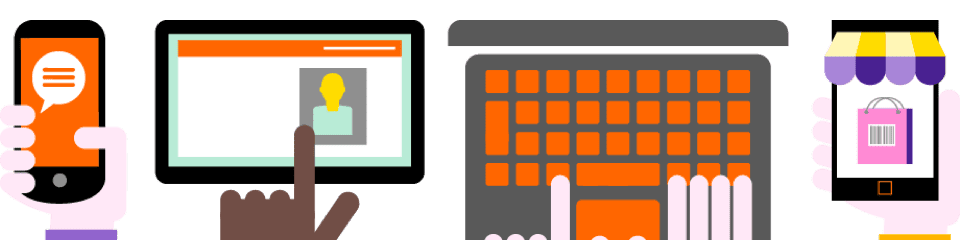
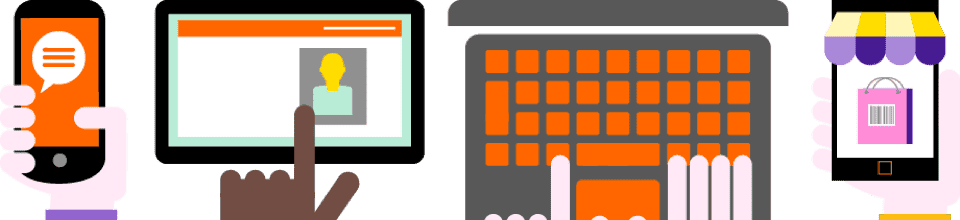
Tests with srcset + display + remove bg-image

diff --git a/site/content/docs/5.1/examples/title-bars/index.html b/site/content/docs/5.1/examples/title-bars/index.html
@@ -38,13 +38,13 @@ body_class: "d-flex flex-column"
   <div class="px-2 px-md-3 px-lg-4 px-xxl-5">
     <div class="px-lg-2 px-xl-3 px-xxl-2 d-flex">
       <div class="pt-3 pt-md-4 pb-2 pb-md-3">
-        <h1 class="py-xl-1 m-0">Short title img</h1>
+        <h1 class="py-xl-1 m-0">Short img</h1>
       </div>
-      <div class="pt-1 pt-md-2 ms-auto mt-auto text-end display-1 m-0 d-flex gap-2">
-        <img src="https://boosted.orange.com/docs/5.1/assets/brand/orange-logo.svg" />
-        <img src="https://boosted.orange.com/docs/5.1/assets/brand/orange-logo.svg" />
-        <img src="https://assets.stickpng.com/images/580b57fcd9996e24bc43c325.png" class="d-none d-sm-block" />
-        <img src="https://www.zelda.com/links-awakening/assets/img/characters/char-link.png" class="d-none d-md-block" />
+      <div class="pt-1 pt-md-2 ms-auto mt-auto text-end m-0 d-flex gap-2">
+        <img src="https://boosted.orange.com/docs/5.1/assets/brand/orange-logo.svg" alt="illustration" />
+        <img src="https://boosted.orange.com/docs/5.1/assets/brand/orange-logo.svg" alt="illustration" />
+        <img src="https://assets.stickpng.com/images/580b57fcd9996e24bc43c325.png" alt="illustration" class="d-none d-sm-block" />
+        <img src="https://www.zelda.com/links-awakening/assets/img/characters/char-link.png" alt="illustration" class="d-none d-md-block" />
       </div>
     </div>
   </div>
@@ -52,14 +52,14 @@ body_class: "d-flex flex-column"
 
 <div class="b-example-divider"></div>
 
-<!-- IMG with bitmap and svg images -->
+<!-- IMG with bitmap and svg images ->
 <div class="bg-supporting-green">
   <div class="px-2 px-sm-3 px-md-4 px-xl-5">
     <div class="px-md-2 px-lg-3 px-xl-2 d-flex">
       <div class="pt-3 pt-sm-4 pb-2 pb-sm-3 me-3">
         <h1 class="display-1 py-lg-1 m-0">No component</h1>
       </div>
-      <div class="ms-auto mt-auto text-end display-1 m-0 d-flex gap-2 img">
+      <div class="ms-auto mt-auto text-end m-0 d-flex gap-2 img">
         <img src="https://boosted.orange.com/docs/5.1/assets/brand/orange-logo.svg" />
         <img src="https://boosted.orange.com/docs/5.1/assets/brand/orange-logo.svg" />
         <img src="https://assets.stickpng.com/images/580b57fcd9996e24bc43c325.png" class="d-none d-sm-block" />
@@ -69,23 +69,23 @@ body_class: "d-flex flex-column"
   </div>
 </div>
 
-<div class="b-example-divider"></div>
+<div class="b-example-divider"></div-->
 
 <!-- SVG images -->
 <div class="bg-supporting-green title-bar">
   <div class="px-2 px-md-3 px-lg-4 px-xxl-5">
     <div class="px-lg-2 px-xl-3 px-xxl-2 d-flex">
       <div class="pt-3 pt-md-4 pb-2 pb-md-3">
-        <h1 class="py-xl-1 m-0">Short title svg</h1>
+        <h1 class="py-xl-1 m-0">Short svg</h1>
       </div>
-      <div class="pt-1 pt-md-2 ms-auto mt-auto text-end display-1 m-0 d-flex gap-2">
+      <div class="pt-1 pt-md-2 ms-auto mt-auto text-end m-0 d-flex gap-2">
         <svg viewBox="0 0 876 1280" class="img">
           <g transform="translate(0.000000,1280.000000) scale(0.100000,-0.100000)" fill="currentColor">
             <path d="M3890 11170 c-327 -19 -631 -131 -870 -321 -197 -157 -306 -274 -472 -509 -65 -91 -168 -254 -168 -265 0 -4 -20 -47 -45 -95 -26 -52 -61 -148 -86 -236 -37 -129 -43 -162 -43 -249 -1 -88 3 -111 32 -194 18 -52 48 -116 67 -141 19 -26 35 -50 35 -54 0 -3 -18 -6 -39 -6 -56 0 -90 -15 -138 -62 -70 -69 -88 -137 -87 -333 1 -154 2 -164 38 -285 49 -165 169 -412 234 -482 25 -27 68 -61 93 -74 42 -21 47 -27 53 -67 9 -60 52 -146 139 -280 59 -90 109 -149 235 -277 l161 -163 -33 -41 c-18 -22 -38 -50 -44 -62 -6 -11 -39 -35 -74 -54 -35 -18 -75 -44 -91 -58 -27 -26 -28 -26 -58 -8 -160 94 -639 -269 -1006 -763 -43 -58 -112 -150 -154 -205 -73 -98 -131 -184 -199 -296 -18 -30 -66 -109 -107 -175 -40 -66 -73 -124 -73 -128 0 -5 -14 -28 -31 -53 -17 -25 -41 -69 -54 -99 -26 -57 -50 -79 -100 -91 -82 -19 -145 -85 -145 -153 0 -18 9 -49 20 -71 26 -52 25 -64 -10 -113 -50 -70 -197 -316 -248 -417 -109 -210 -156 -354 -155 -475 0 -103 10 -141 67 -244 59 -108 135 -181 216 -209 36 -12 72 -22 81 -22 10 0 40 -16 69 -35 59 -40 120 -46 185 -19 30 12 49 13 100 5 71 -11 133 -1 174 28 14 10 55 24 91 30 36 6 77 14 93 17 22 5 27 3 27 -13 0 -33 56 -99 103 -122 103 -50 205 -17 322 105 87 89 115 139 155 278 70 240 79 390 35 561 -25 101 -76 218 -117 267 l-22 28 41 37 c28 26 43 50 48 76 10 51 -2 121 -26 150 -10 14 -19 33 -19 42 0 9 42 103 93 209 52 105 113 241 137 301 23 61 61 153 83 205 22 52 55 137 73 188 46 134 51 134 34 3 -8 -60 -15 -79 -41 -108 -42 -48 -50 -73 -61 -178 -26 -271 -18 -421 39 -707 25 -129 26 -143 15 -230 -6 -51 -23 -142 -36 -203 -14 -60 -28 -155 -32 -210 -3 -55 -15 -156 -25 -225 -11 -69 -26 -183 -34 -255 -47 -416 -86 -672 -140 -908 -25 -110 -47 -202 -50 -206 -2 -4 -11 -43 -20 -87 -8 -43 -20 -104 -26 -134 -6 -30 -27 -92 -47 -137 -32 -74 -39 -84 -71 -94 -72 -24 -117 -54 -188 -127 -87 -87 -142 -181 -183 -312 -35 -111 -41 -237 -14 -316 23 -68 154 -293 179 -307 19 -11 675 -23 1200 -21 204 0 214 1 340 33 185 47 208 62 198 129 -5 28 2 42 42 94 79 102 90 163 55 310 -26 108 -25 113 10 145 24 21 30 34 30 67 -1 23 -8 59 -16 81 -8 22 -21 99 -29 170 -18 168 -12 301 30 695 14 129 30 285 36 345 6 61 17 151 25 200 8 50 19 119 25 155 17 112 60 293 81 349 30 75 80 111 157 111 62 0 97 -17 111 -56 5 -13 19 -82 30 -152 12 -70 25 -149 30 -177 107 -560 176 -1453 127 -1630 -9 -32 -17 -81 -17 -107 0 -46 9 -59 57 -83 2 -1 -6 -25 -17 -53 -15 -39 -20 -77 -20 -146 0 -88 2 -97 37 -162 20 -38 46 -82 59 -99 12 -16 37 -58 55 -93 53 -102 58 -104 378 -107 147 -2 354 -8 461 -14 401 -22 725 -25 849 -7 143 20 212 49 231 97 7 19 28 55 47 80 72 101 118 247 108 344 -9 80 -42 200 -71 255 -70 137 -278 309 -432 357 -45 14 -63 27 -99 72 -24 30 -53 72 -64 93 -36 70 -150 622 -169 813 -5 55 -17 156 -25 225 -9 69 -20 193 -25 275 -5 83 -14 186 -20 230 -5 44 -17 143 -25 220 -25 222 -45 364 -55 391 -20 52 -6 306 27 489 16 85 17 168 12 560 0 33 0 81 1 106 3 49 -14 90 -60 149 -49 62 -61 97 -58 157 3 56 4 57 38 65 220 52 531 166 680 251 94 53 242 155 308 211 l64 54 93 -5 c180 -11 299 36 389 155 30 39 58 62 107 87 87 44 230 166 359 304 118 126 133 149 156 227 26 91 1 184 -74 269 -30 34 -47 69 -72 147 -43 137 -51 151 -120 204 -43 34 -66 61 -85 103 -15 31 -45 80 -66 109 -33 43 -54 59 -123 91 -68 33 -90 49 -125 95 -57 74 -138 134 -203 152 -46 12 -61 12 -112 -1 -106 -27 -199 -80 -296 -168 -36 -32 -78 -79 -94 -104 -28 -42 -31 -44 -65 -38 -51 9 -58 20 -37 56 34 57 57 153 66 275 11 144 1 226 -36 301 -28 59 -84 103 -157 125 -61 18 -65 31 -29 101 64 127 76 270 36 463 -31 151 -198 516 -332 724 -111 173 -478 566 -636 684 -39 29 -99 73 -133 98 -66 49 -267 155 -343 181 -25 9 -82 29 -127 46 -93 34 -237 66 -338 76 -38 3 -77 7 -85 9 -8 1 -71 -1 -140 -4z m1910 -3532 c0 -17 18 -85 40 -149 l40 -118 -11 -103 c-6 -57 -14 -108 -18 -114 -3 -6 -32 -35 -64 -64 -47 -43 -75 -58 -144 -82 -80 -27 -220 -55 -388 -79 -38 -5 -90 -17 -115 -25 -45 -16 -45 -16 -123 21 -70 34 -81 43 -103 86 -13 27 -24 51 -24 54 0 2 19 17 42 32 71 46 241 174 278 208 19 18 57 40 83 49 108 36 153 82 172 175 l11 56 71 1 c62 0 81 6 154 42 46 22 87 41 92 42 4 0 7 -14 7 -32z">
             </path>
           </g>
         </svg>
-        <img src="https://assets.stickpng.com/images/580b57fcd9996e24bc43c325.png" />
+        <img src="https://assets.stickpng.com/images/580b57fcd9996e24bc43c325.png" alt="illustration" />
         <svg viewBox="0 0 1075 1280" class="img d-none d-sm-block">
           <g transform="translate(0.000000,1280.000000) scale(0.100000,-0.100000)" fill="currentColor">
             <path d="M7014 12770 c-143 -33 -202 -61 -267 -127 -82 -82 -137 -204 -137 -305 0 -48 8 -44 100 42 121 115 212 140 373 104 93 -21 125 -38 221 -118 68 -57 89 -69 165 -92 127 -38 137 -42 182 -91 95 -103 128 -251 76 -348 -25 -48 -118 -132 -172 -156 -68 -31 -208 -32 -315 -4 -60 16 -107 20 -230 20 -144 0 -159 -2 -204 -24 -27 -13 -79 -53 -117 -88 l-67 -64 -73 21 c-93 25 -141 25 -215 0 -127 -44 -132 -44 -334 -4 l-185 37 -85 -18 c-47 -10 -112 -22 -145 -26 -33 -5 -78 -13 -100 -19 -38 -11 -45 -9 -126 34 -47 25 -142 64 -210 87 l-124 41 -255 8 c-332 11 -420 32 -504 119 -35 37 -37 62 -8 157 36 119 83 178 209 261 232 154 392 203 658 203 121 0 179 -17 367 -107 87 -41 161 -73 164 -71 2 3 -5 32 -17 64 -42 112 -107 198 -212 278 -92 70 -200 120 -346 159 -114 31 -120 32 -336 31 -265 -1 -340 -14 -552 -98 -191 -75 -217 -89 -290 -159 -133 -127 -182 -253 -224 -574 -26 -205 9 -389 109 -560 24 -43 62 -109 84 -148 47 -84 109 -151 163 -176 50 -23 129 -24 290 -4 208 26 284 18 373 -37 l35 -22 -62 -12 c-181 -37 -279 -151 -356 -413 -20 -68 -43 -137 -51 -153 -8 -16 -59 -75 -113 -132 -89 -93 -102 -112 -131 -187 -17 -45 -36 -108 -41 -138 -21 -131 -3 -304 40 -389 25 -49 29 -52 62 -45 20 4 30 14 40 46 19 57 97 174 145 218 22 19 78 58 124 86 78 46 93 51 180 62 106 13 236 52 274 82 14 11 44 56 67 99 40 77 95 140 123 140 19 0 72 -129 85 -205 5 -33 17 -125 26 -205 9 -80 20 -163 25 -185 5 -22 6 -43 2 -47 -4 -3 -53 -40 -110 -82 -57 -43 -117 -96 -134 -121 l-32 -45 -155 0 c-191 0 -304 -12 -444 -45 -238 -56 -352 -111 -449 -218 -95 -105 -164 -199 -202 -276 -57 -112 -134 -331 -155 -441 -33 -165 -86 -316 -177 -500 -100 -204 -114 -248 -114 -357 0 -46 -3 -83 -8 -83 -12 0 -112 164 -133 220 -11 28 -38 111 -60 183 -40 128 -41 138 -48 313 -6 178 -6 181 -35 222 -44 64 -238 247 -314 296 -37 24 -89 67 -117 96 -68 70 -109 90 -188 90 -60 0 -69 -3 -141 -51 -80 -52 -181 -103 -228 -114 -24 -6 -28 -2 -46 37 -10 23 -47 81 -81 127 -34 46 -82 113 -105 150 -24 36 -64 91 -90 121 -26 30 -53 66 -60 80 -7 14 -16 77 -19 140 -4 63 -13 140 -22 170 -28 103 -11 279 31 321 18 18 21 17 84 -13 55 -27 77 -32 142 -33 l77 0 63 63 c90 88 138 83 138 -15 0 -21 8 -52 19 -69 38 -62 127 -144 196 -182 94 -50 110 -83 124 -248 6 -66 22 -164 36 -218 18 -70 25 -122 25 -191 0 -104 6 -112 53 -75 18 14 30 41 43 92 17 64 19 113 19 393 0 176 -6 381 -12 455 -18 199 -79 427 -178 665 l-38 90 9 120 c17 235 3 389 -42 478 -31 60 -86 118 -182 191 -121 92 -125 96 -161 185 -43 107 -72 142 -221 273 -158 140 -280 225 -370 260 -85 33 -196 58 -260 58 -48 0 -51 -1 -45 -22 17 -60 72 -152 145 -243 44 -55 93 -125 108 -155 25 -51 27 -67 32 -211 l5 -156 46 -59 c43 -55 47 -66 63 -164 10 -58 26 -145 37 -195 36 -169 18 -274 -63 -352 -57 -54 -90 -63 -223 -63 l-113 0 -27 -37 c-52 -71 -98 -113 -123 -113 -16 0 -47 22 -90 64 -78 73 -105 90 -134 80 -12 -3 -61 -44 -110 -90 -48 -46 -93 -84 -99 -84 -19 0 10 -258 37 -334 13 -35 13 -59 3 -166 -7 -69 -13 -126 -14 -127 -1 -2 -28 12 -61 29 -36 20 -81 35 -117 39 -102 12 -126 53 -196 340 -58 238 -71 306 -71 367 0 43 -1 44 -18 29 -27 -25 -30 -21 -21 26 11 57 11 207 0 207 -5 0 -18 -22 -30 -49 -18 -43 -21 -69 -21 -189 0 -112 3 -142 15 -152 19 -16 19 -60 0 -86 -12 -16 -14 -80 -15 -396 l0 -377 31 -113 c70 -258 82 -297 120 -378 22 -46 49 -123 61 -170 22 -92 52 -160 92 -207 14 -17 43 -71 63 -119 33 -80 46 -98 127 -180 92 -91 276 -235 383 -300 53 -31 143 -66 152 -58 3 2 -34 98 -185 481 -43 108 -44 114 -29 142 20 40 19 86 -4 130 -19 35 -61 199 -61 239 0 36 30 35 71 -3 22 -19 44 -35 50 -35 16 0 5 239 -15 308 -11 40 -12 54 -3 57 7 2 27 8 46 14 18 6 36 9 40 7 10 -7 69 -127 86 -178 l17 -48 52 0 51 0 103 -182 c56 -101 162 -291 235 -423 l133 -240 -32 -80 c-47 -115 -65 -188 -71 -291 l-6 -92 42 -44 c36 -39 42 -53 50 -114 9 -61 14 -72 42 -94 18 -14 60 -48 94 -76 58 -49 63 -51 155 -63 52 -8 122 -22 155 -32 33 -10 83 -19 112 -19 44 0 55 -4 73 -27 12 -16 75 -129 139 -253 64 -124 226 -425 358 -670 133 -245 426 -788 651 -1207 l410 -762 -38 -88 c-21 -48 -46 -117 -56 -153 -9 -36 -53 -144 -97 -240 -201 -445 -198 -435 -204 -828 -3 -201 -1 -314 7 -363 12 -71 12 -71 114 -181 121 -132 292 -289 353 -325 80 -47 297 -138 396 -168 134 -39 166 -64 221 -172 24 -49 56 -123 71 -165 15 -43 49 -112 75 -153 75 -119 74 -158 -7 -260 -86 -108 -162 -181 -253 -241 -52 -34 -108 -76 -124 -93 -24 -25 -40 -32 -88 -37 -32 -4 -58 -8 -58 -11 0 -2 8 -15 17 -29 16 -25 16 -27 -8 -45 -47 -38 -156 -97 -289 -159 -201 -93 -258 -129 -313 -199 -26 -33 -57 -81 -68 -106 -23 -52 -34 -134 -21 -154 5 -7 63 -24 128 -37 66 -13 168 -36 228 -50 107 -26 111 -27 223 -14 112 13 116 13 230 -14 185 -43 258 -48 613 -41 366 8 388 12 531 94 40 23 108 56 150 72 81 31 93 41 193 168 42 53 51 72 63 138 17 90 37 133 105 226 72 97 129 271 136 413 l5 101 -46 94 c-25 52 -53 120 -62 151 -10 35 -23 59 -34 63 -9 3 -53 28 -96 55 -44 28 -97 56 -117 62 -21 6 -44 18 -52 27 -8 9 -30 79 -50 157 -38 149 -85 293 -118 359 -12 22 -46 67 -77 100 -51 55 -59 71 -89 165 -38 122 -38 122 -15 217 15 67 15 74 0 91 -28 31 -47 89 -47 145 0 62 3 66 80 97 79 33 111 60 159 134 33 50 49 66 66 66 23 0 23 -1 27 -177 5 -188 12 -220 78 -367 27 -59 15 -67 164 124 91 117 120 165 143 240 3 10 14 -2 31 -32 15 -27 32 -48 37 -48 6 0 34 11 63 25 l53 25 16 -37 c23 -57 43 -162 43 -235 0 -38 3 -68 8 -68 10 1 79 90 132 170 24 36 59 86 78 113 l34 47 18 -23 c42 -53 62 -108 75 -212 19 -143 20 -145 58 -145 30 0 36 6 79 83 26 46 60 121 74 168 15 46 28 85 29 87 1 1 30 -12 64 -30 67 -34 85 -33 107 11 6 12 13 24 17 27 9 9 180 -102 218 -143 48 -50 53 -91 34 -258 -19 -166 -19 -306 -1 -348 17 -41 80 -100 179 -171 82 -58 145 -125 178 -188 26 -51 26 -187 -1 -293 -11 -43 -20 -90 -20 -105 0 -30 30 -75 77 -114 94 -79 97 -194 10 -473 -99 -317 -115 -366 -163 -503 -47 -131 -49 -139 -52 -269 -4 -121 -2 -136 14 -148 38 -28 179 -11 346 42 46 15 116 33 157 41 71 14 79 13 160 -8 123 -31 369 -32 454 -2 48 18 66 20 100 12 23 -5 94 -8 157 -5 138 5 234 33 383 110 96 50 101 51 198 55 54 3 99 6 99 8 0 9 -152 235 -178 265 -17 20 -97 92 -179 162 -153 132 -168 149 -284 331 -120 186 -113 164 -120 386 l-6 195 -52 158 c-28 87 -56 193 -62 235 -6 42 -13 92 -15 110 -4 25 -13 36 -44 52 -36 18 -40 24 -40 58 0 20 10 78 22 127 17 73 22 128 24 290 1 110 8 263 14 340 7 78 11 248 9 385 l-4 245 -29 55 c-16 30 -45 80 -66 110 -126 188 -220 425 -265 668 -28 148 -91 326 -148 414 -19 29 -65 91 -104 138 -38 47 -122 153 -185 237 -67 89 -140 173 -175 202 -55 46 -65 60 -97 141 -40 101 -42 125 -21 236 8 43 13 80 10 82 -2 2 -38 -3 -80 -13 -42 -9 -79 -14 -82 -11 -11 11 32 97 81 162 29 38 58 79 65 92 18 34 50 223 60 355 11 142 20 160 155 292 109 106 147 170 207 340 50 145 76 198 91 189 6 -4 49 -38 97 -76 47 -38 105 -80 128 -94 64 -37 204 -79 380 -115 87 -17 162 -35 167 -40 5 -4 0 -32 -13 -66 -39 -105 -43 -153 -21 -240 11 -43 38 -115 60 -160 34 -69 53 -93 118 -150 42 -37 155 -145 249 -240 206 -207 207 -210 207 -413 -1 -147 -14 -207 -84 -380 -65 -161 -88 -233 -99 -313 -9 -66 -8 -71 35 -187 56 -155 81 -254 89 -360 13 -176 41 -265 98 -318 52 -49 232 -71 298 -37 19 10 61 36 93 58 65 44 133 69 165 60 15 -4 28 4 46 25 17 21 47 38 93 53 81 26 130 50 202 99 30 20 80 48 110 62 103 48 147 101 213 259 10 23 38 53 74 81 l58 45 -3 64 c-5 96 -29 237 -52 304 -12 33 -37 118 -56 189 -19 71 -46 151 -61 178 -25 46 -30 49 -97 69 -116 33 -121 36 -211 144 -86 103 -164 168 -217 181 -16 3 -28 13 -28 20 0 8 18 103 40 210 45 220 49 300 25 482 -19 144 -39 221 -78 301 -47 96 -102 146 -252 225 -71 37 -140 78 -153 90 -13 11 -44 54 -69 96 -26 42 -93 124 -155 190 -61 63 -129 140 -152 170 -71 94 -193 302 -211 360 -20 67 -107 320 -141 412 -45 121 -187 327 -327 474 -107 113 -178 148 -439 214 -106 27 -241 68 -301 90 -110 41 -203 59 -315 60 -80 0 -120 17 -188 80 -69 62 -173 114 -286 142 -48 11 -85 24 -83 29 3 4 14 63 25 130 29 177 39 217 72 282 15 31 30 57 33 57 2 0 32 -39 66 -87 105 -148 204 -259 251 -281 34 -16 74 -21 185 -26 184 -9 220 -20 308 -97 83 -72 132 -99 179 -99 33 0 36 3 47 43 8 28 12 151 12 382 1 325 0 342 -20 380 -28 53 -114 133 -188 174 -76 43 -113 77 -188 176 -33 44 -66 83 -71 87 -6 4 -34 8 -62 8 -38 0 -61 7 -95 29 -25 16 -62 35 -82 42 -21 7 -37 16 -37 20 0 24 207 169 282 198 14 5 73 15 130 21 56 6 118 16 136 22 40 12 108 66 252 198 58 53 132 117 166 142 80 61 168 158 202 221 26 51 27 56 26 222 l0 170 -43 100 c-24 55 -77 166 -118 247 -88 172 -149 242 -260 301 -86 45 -152 63 -281 77 -57 6 -121 18 -144 26 -32 11 -100 14 -312 13 -260 -1 -276 -2 -392 -29z m-6244 -2356 c0 -8 -4 -12 -10 -9 -5 3 -10 10 -10 16 0 5 5 9 10 9 6 0 10 -7 10 -16z m-700 -54 c0 -5 -4 -10 -10 -10 -5 0 -10 5 -10 10 0 6 5 10 10 10 6 0 10 -4 10 -10z m2084 -2959 c7 -11 -22 -23 -35 -15 -5 3 -9 9 -9 15 0 12 37 12 44 0z m2210 -607 c19 -31 38 -70 42 -87 3 -16 24 -45 47 -66 155 -138 204 -207 237 -336 17 -67 18 -78 4 -141 -44 -203 -44 -201 50 -354 35 -58 63 -106 62 -108 -2 -1 -32 7 -67 18 -82 25 -80 26 -72 -11 3 -18 25 -51 52 -77 26 -26 64 -78 85 -116 22 -39 57 -89 79 -113 l40 -44 -22 -47 c-40 -83 -110 -179 -169 -234 -61 -56 -309 -210 -421 -260 -36 -17 -84 -43 -106 -58 -80 -55 -45 -102 -404 546 -178 321 -322 586 -320 588 2 1 20 12 40 24 52 31 106 93 186 213 87 129 102 159 143 283 38 114 56 137 162 203 120 75 265 182 283 209 8 13 20 24 24 24 5 0 25 -25 45 -56z m2816 -1224 c0 -5 -4 -10 -10 -10 -5 0 -10 5 -10 10 0 6 5 10 10 10 6 0 10 -4 10 -10z m3255 -1020 c-19 -21 -45 -27 -45 -10 0 11 30 29 49 30 11 0 10 -5 -4 -20z m-95 -40 c0 -5 -4 -10 -10 -10 -5 0 -10 5 -10 10 0 6 5 10 10 10 6 0 10 -4 10 -10z m-270 -40 c12 -8 9 -10 -13 -10 -16 0 -26 4 -22 10 8 12 16 12 35 0z"></path>
@@ -102,7 +102,7 @@ body_class: "d-flex flex-column"
 
 <div class="b-example-divider"></div>
 
-<!-- Backgroung-image in different div -->
+<!-- Backgroung-image in different div ->
 <div class="bg-supporting-purple title-bar">
   <div class="px-2 px-md-3 px-lg-4 px-xxl-5">
     <div class="px-lg-2 px-xl-3 px-xxl-2 d-flex">
@@ -114,9 +114,9 @@ body_class: "d-flex flex-column"
   </div>
 </div>
 
-<div class="b-example-divider"></div>
+<div class="b-example-divider"></div-->
 
-<!-- Backgroung-image in same div -->
+<!-- Backgroung-image in same div ->
 <div class="bg-supporting-pink title-bar">
   <div class="px-2 px-md-3 px-lg-4 px-xxl-5">
     <h1 class="m-0 mx-lg-2 mx-xl-3 mx-xxl-2 d-flex test">
@@ -127,7 +127,7 @@ body_class: "d-flex flex-column"
   </div>
 </div>
 
-<div class="b-example-divider"></div>
+<div class="b-example-divider"></div-->
 
 <!-- Test with img srcset -->
 <div class="bg-supporting-blue title-bar">
@@ -164,7 +164,7 @@ body_class: "d-flex flex-column"
   <div class="px-2 px-md-3 px-lg-4 px-xxl-5">
     <div class="px-lg-2 px-xl-3 px-xxl-2 d-flex">
       <div class="pt-3 pt-md-4 pb-2 pb-md-3">
-        <h1 class="py-xl-1 m-0">srcset picture</h1>
+        <h1 class="py-xl-1 m-0">srcset pictur</h1>
       </div>
       <div class="pt-1 pt-md-2 ms-auto mt-auto text-end m-0">
         <picture>
@@ -174,7 +174,7 @@ body_class: "d-flex flex-column"
           <source media="(min-width:768px)" srcset="/docs/{{< param docs_version >}}/assets/img/title-bars-illustrations/illustration-768.png">
           <source media="(min-width:480px)" srcset="/docs/{{< param docs_version >}}/assets/img/title-bars-illustrations/illustration-480.png">
           <source media="(min-width:320px)" srcset="/docs/{{< param docs_version >}}/assets/img/title-bars-illustrations/illustration-320.png">
-          <img src="/docs/{{< param docs_version >}}/assets/img/title-bars-illustrations/illustration-320.png" alt="illustration">
+          <img src="/docs/{{< param docs_version >}}/assets/img/title-bars-illustrations/illustration-320.png" alt="illustration"/>
         </picture>
       </div>
     </div>

diff --git a/site/content/docs/5.1/examples/title-bars/title-bars.css b/site/content/docs/5.1/examples/title-bars/title-bars.css
@@ -1,19 +1,20 @@
-.test {
+/* .test {
   background: url("https://boosted.orange.com/docs/5.1/assets/brand/orange-logo.svg") right bottom/1.8em no-repeat, url("https://boosted.orange.com/docs/5.1/assets/brand/orange-logo.svg") right 2em bottom/1.8em no-repeat;
-
-  @media (min-width: 480px) {
+}
+@media (min-width: 480px) {
+  .test {
     background: url("https://boosted.orange.com/docs/5.1/assets/brand/orange-logo.svg") right bottom/1.8em no-repeat, url("https://boosted.orange.com/docs/5.1/assets/brand/orange-logo.svg") right 2em bottom/1.8em no-repeat, url("https://boosted.orange.com/docs/5.1/assets/brand/orange-logo.svg") right 4em bottom/1.8em no-repeat;
   }
-
-  @media (min-width: 768px) {
+}
+@media (min-width: 768px) {
+  .test {
     background: url("https://boosted.orange.com/docs/5.1/assets/brand/orange-logo.svg") right bottom/1.8em no-repeat, url("https://boosted.orange.com/docs/5.1/assets/brand/orange-logo.svg") right 2em bottom/1.8em no-repeat, url("https://boosted.orange.com/docs/5.1/assets/brand/orange-logo.svg") right 4em bottom/1.8em no-repeat, url("https://www.pngfind.com/pngs/m/2-24642_imagenes-random-png-cosas-random-png-transparent-png.png") right 6em bottom/1.73em no-repeat;
   }
 }
 
-.img,
-.img img {
+.img {
   height: 1.8em;
-}
+} */
 
 .b-example-divider {
   height: 3rem;

diff --git a/scss/_title-bars.scss b/scss/_title-bars.scss
@@ -3,11 +3,39 @@
   svg {
     width: auto;
     height: 1.8em;
+
+    @media (max-width: 20em) {
+      display: none;
+    }
+    @include media-breakpoint-up("sm") {
+      @media (max-width: 26em) {
+        display: none;
+      }
+    }
+    @include media-breakpoint-up("md") {
+      @media (max-width: 43em) {
+        display: none;
+      }
+    }
+    @include media-breakpoint-up("lg") {
+      @media (max-width: 49em) {
+        display: none;
+      }
+    }
+    @include media-breakpoint-up("xl") {
+      @media (max-width: 57.5em) {
+        display: none;
+      }
+    }
+    @include media-breakpoint-up("xxl") {
+      @media (max-width: 63.5em) {
+        display: none;
+      }
+    }
   }
 
   h1,
-  img,
-  svg {
+  & {
     font-size: $h2-font-size;
     line-height: $display-line-height;
     letter-spacing: $h2-spacing;
